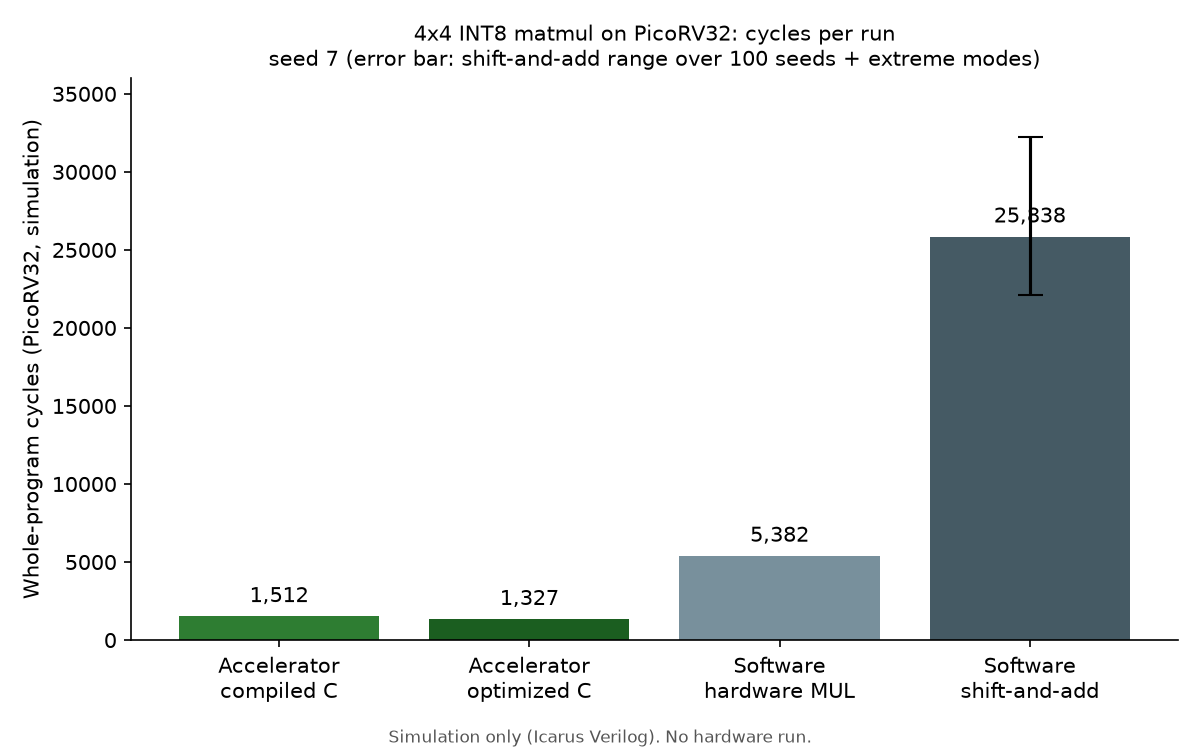
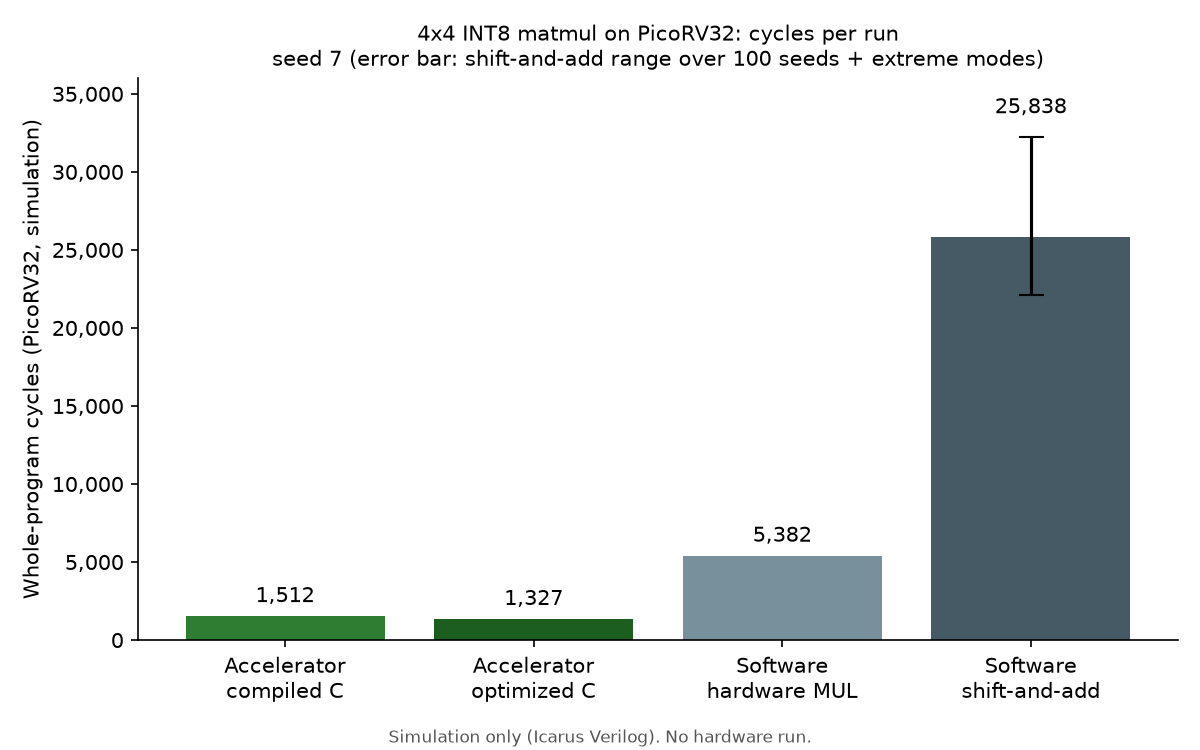
Results chart: move shift-and-add label above error bar; comma axis

diff --git a/make_results_chart.py b/make_results_chart.py
@@ -1,10 +1,8 @@
 import matplotlib
 matplotlib.use("Agg")
 import matplotlib.pyplot as plt
+from matplotlib.ticker import FuncFormatter
 
-# Values from simulation runs in this repo (seed 7 unless noted).
-# Fixed-count firmwares: same count across all 100 seeds and extreme modes.
-# Shift-and-add: range across 100 seeds (mode 0) plus extreme modes 1-3.
 labels = ["Accelerator\ncompiled C", "Accelerator\noptimized C",
           "Software\nhardware MUL", "Software\nshift-and-add"]
 cycles = [1512, 1327, 5382, 25838]
@@ -16,10 +14,13 @@ bars = ax.bar(labels, cycles, color=colors)
 ax.errorbar(3, 25838, yerr=[[25838 - sw_lo], [sw_hi - 25838]],
             fmt="none", ecolor="black", capsize=6)
 
-for b, c in zip(bars, cycles):
-    ax.text(b.get_x() + b.get_width() / 2, c + 600, f"{c:,}",
+for i, (b, c) in enumerate(zip(bars, cycles)):
+    # Put the shift-and-add label above the error bar's top cap
+    y = sw_hi + 1200 if i == 3 else c + 600
+    ax.text(b.get_x() + b.get_width() / 2, y, f"{c:,}",
             ha="center", va="bottom", fontsize=10)
 
+ax.yaxis.set_major_formatter(FuncFormatter(lambda v, _: f"{int(v):,}"))
 ax.set_ylabel("Whole-program cycles (PicoRV32, simulation)")
 ax.set_title("4x4 INT8 matmul on PicoRV32: cycles per run\n"
              "seed 7 (error bar: shift-and-add range over 100 seeds + extreme modes)",
